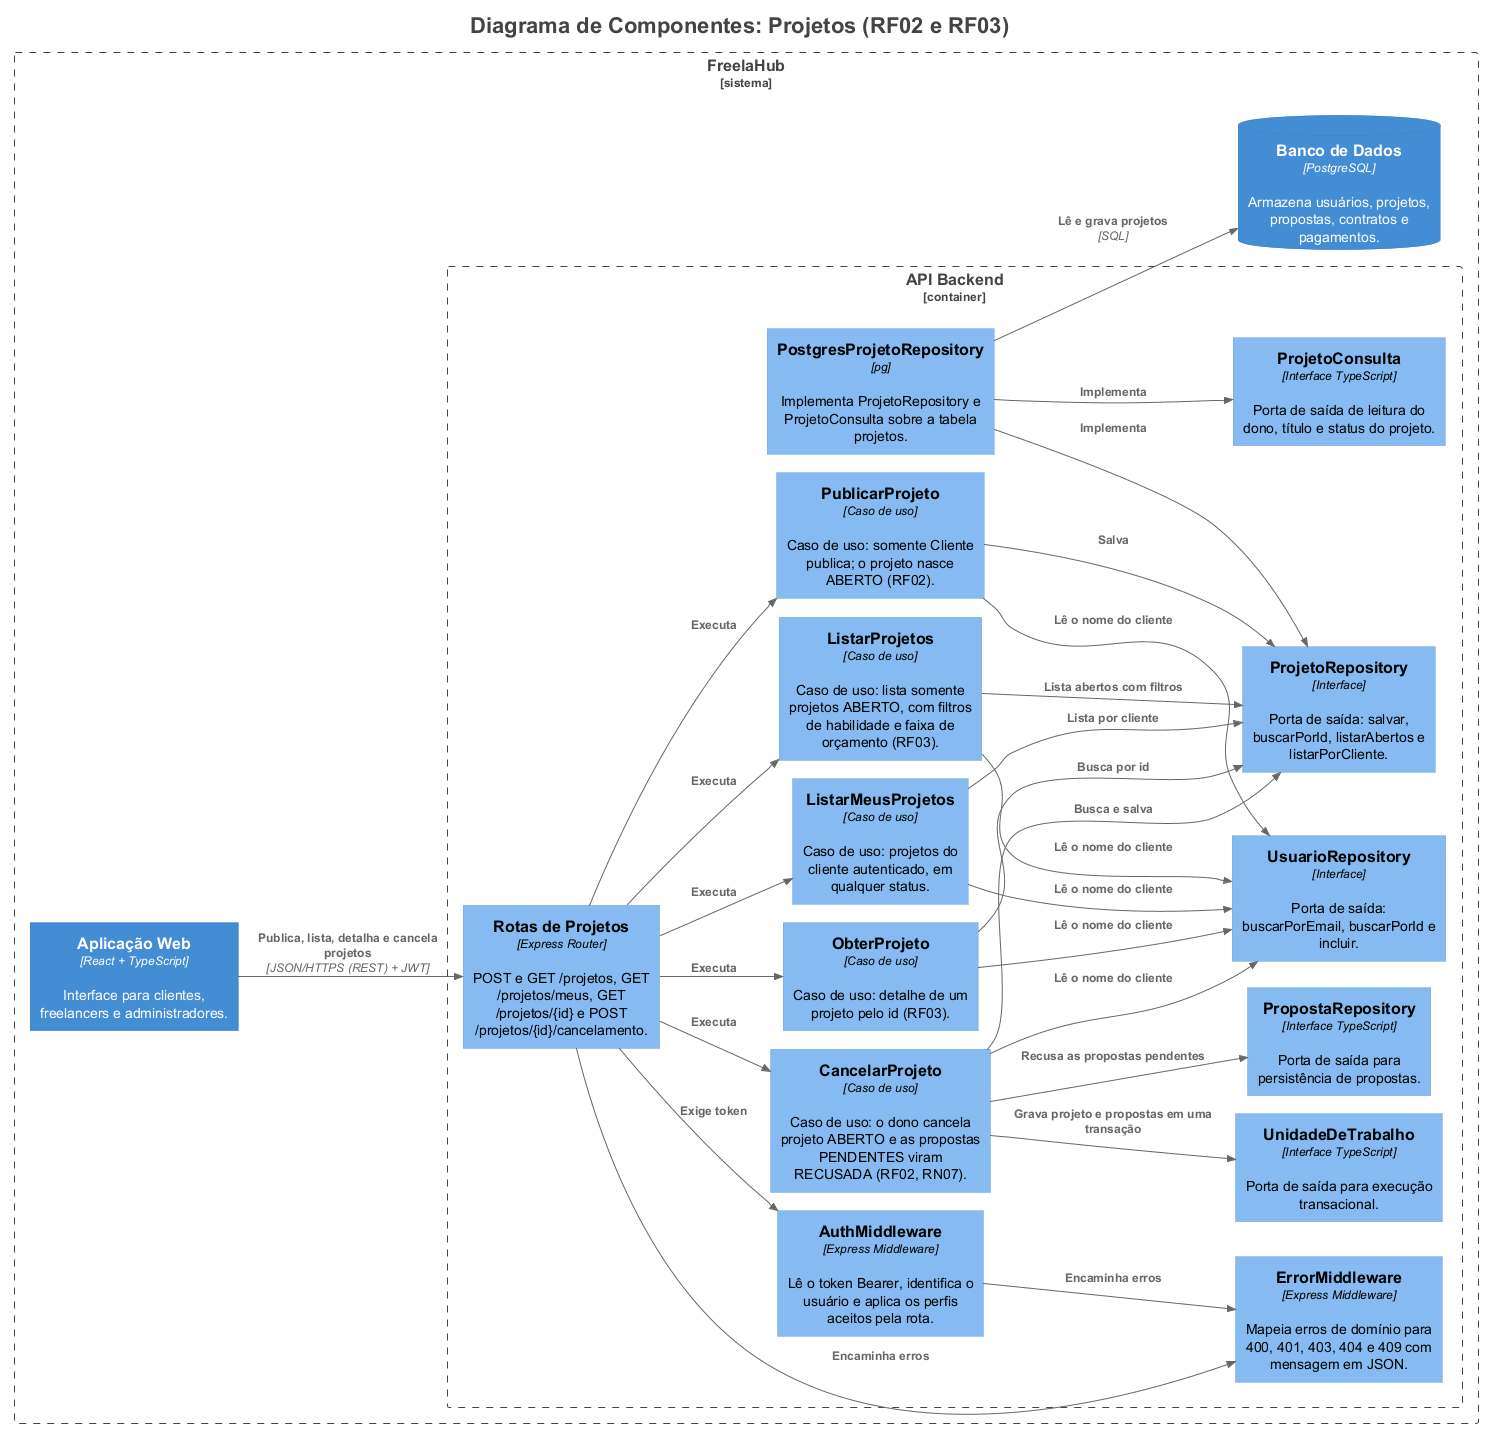
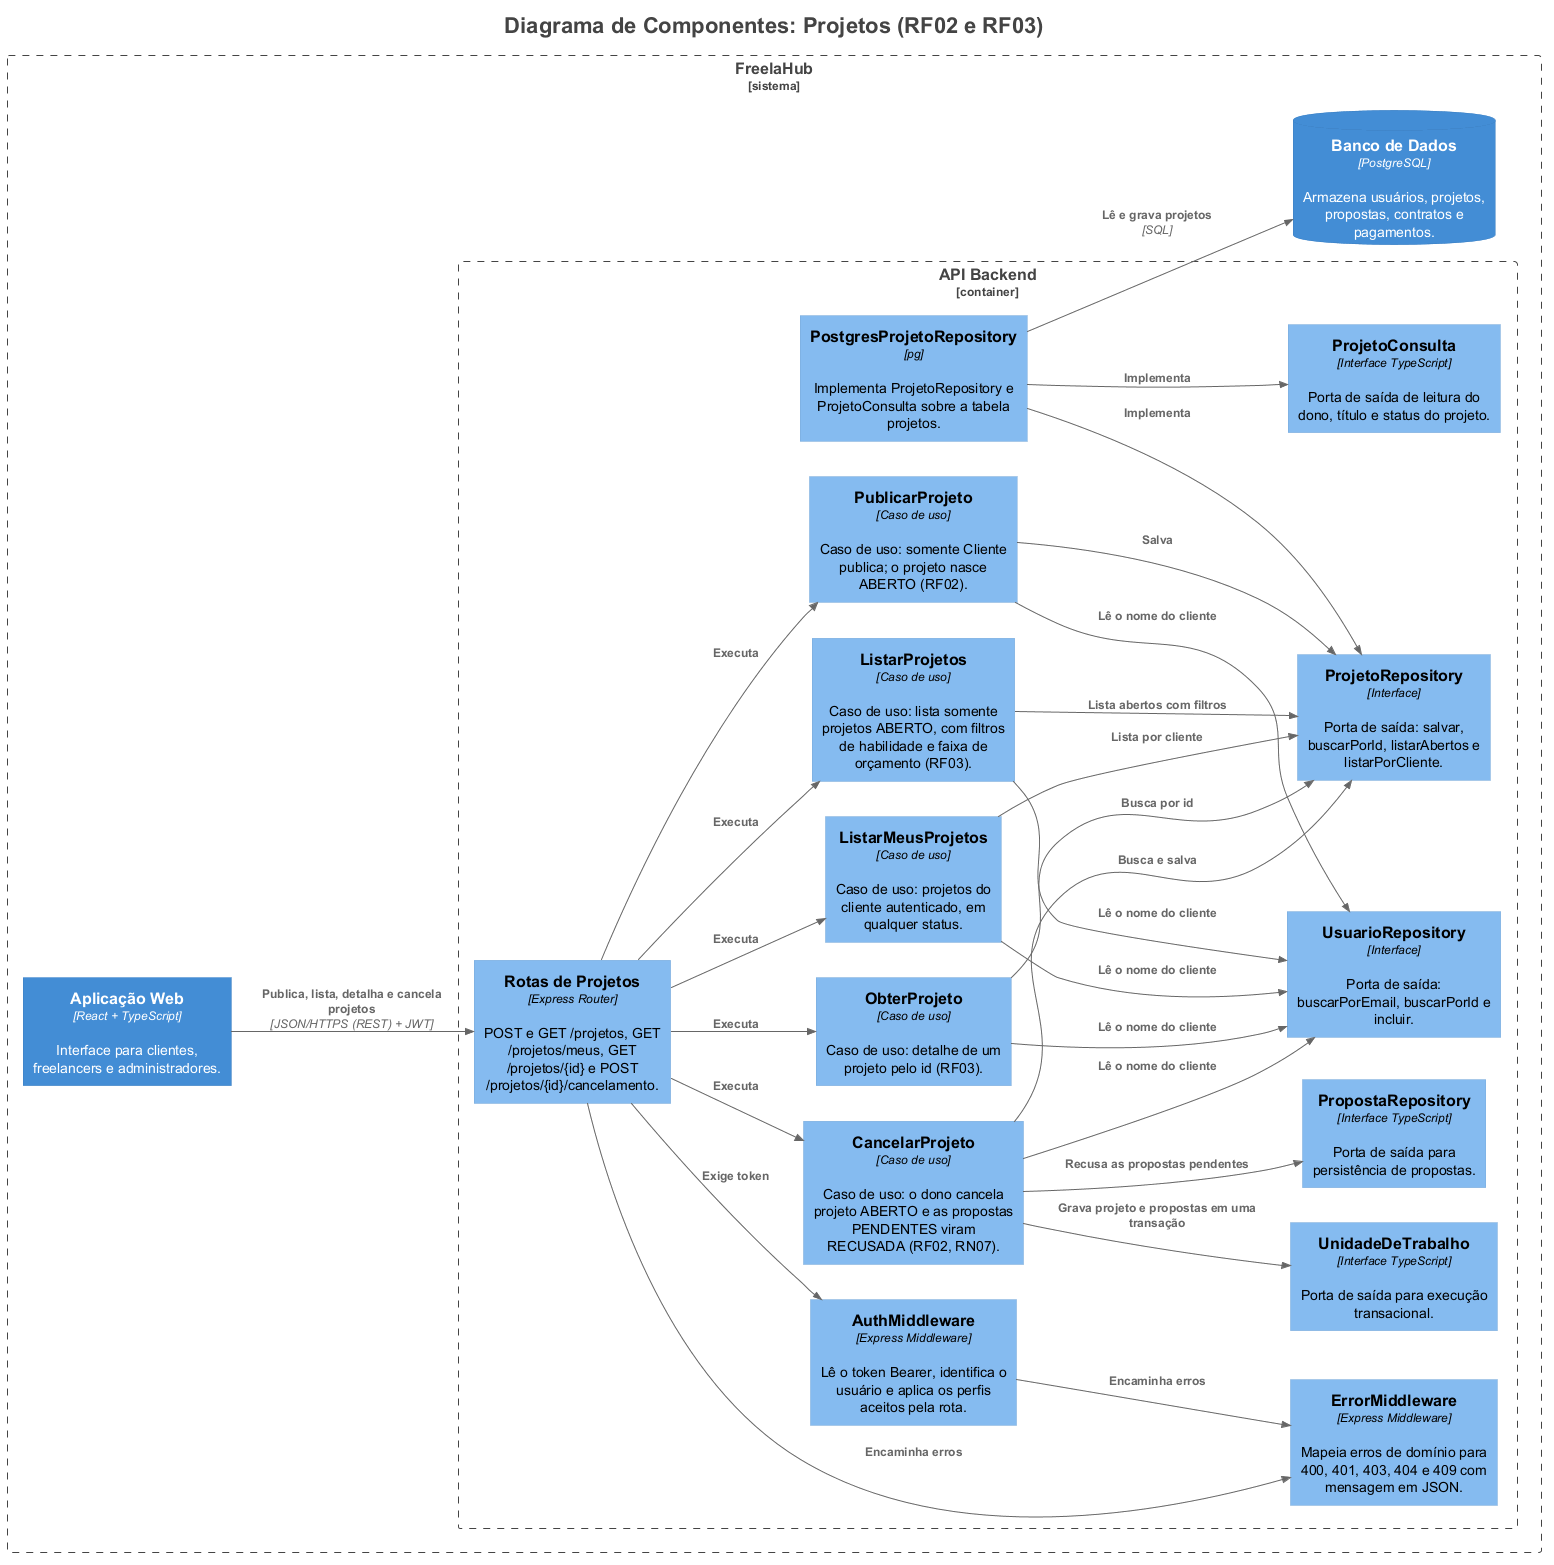
Reúne todos os diagramas C4 em uma página

diff --git a/docs/c4/README.md b/docs/c4/README.md
@@ -1,0 +1,59 @@
+# Diagramas C4 do FreelaHub
+
+Todos os diagramas do projeto, do nível mais geral ao mais detalhado. A fonte é o arquivo [`workspace.dsl`](workspace.dsl). Para navegar neles, cole o conteúdo em [playground.structurizr.com](https://playground.structurizr.com) e escolha a visão no menu.
+
+## Nível 1: Contexto
+
+### Contexto
+
+![Contexto](contexto.png)
+
+## Nível 2: Containers
+
+### Containers
+
+![Containers](containers.png)
+
+## Nível 3: Componentes
+
+### Aplicação Web
+
+![Aplicação Web](componentes-web.png)
+
+### RF01: Cadastro e autenticação
+
+![RF01: Cadastro e autenticação](componentes-rf01.png)
+
+### RF02 e RF03: Projetos
+
+![RF02 e RF03: Projetos](componentes-rf02.png)
+
+### RF04 e RF07: Propostas e notificações
+
+![RF04 e RF07: Propostas e notificações](componentes-propostas.png)
+
+### RF05: Aceite de proposta
+
+![RF05: Aceite de proposta](componentes-rf05.png)
+
+## Nível 4: Código
+
+### RF01: Cadastro e autenticação
+
+![RF01: Cadastro e autenticação](codigo/cadastro-autenticacao.png)
+
+### RF02 e RF03: Projetos
+
+![RF02 e RF03: Projetos](codigo/projetos.png)
+
+### RF04 e RF07: Propostas e notificações
+
+![RF04 e RF07: Propostas e notificações](codigo/propostas-notificacoes.png)
+
+### RF05: Aceite de proposta
+
+![RF05: Aceite de proposta](codigo/aceite-de-proposta.png)
+
+## Pendente
+
+Os diagramas de Componentes e Código do RF06 (pagamento) entram com a fatia correspondente.

diff --git a/README.md b/README.md
@@ -38,8 +38,8 @@ Os diagramas são mantidos em Structurizr DSL no arquivo [`docs/c4/workspace.dsl
 |---|---|---|
 | Contexto | [`docs/c4/contexto.png`](docs/c4/contexto.png) | Concluída |
 | Container | [`docs/c4/containers.png`](docs/c4/containers.png) | Concluída |
-| Componentes | [`componentes-web.png`](docs/c4/componentes-web.png), [`componentes-rf01.png`](docs/c4/componentes-rf01.png), [`componentes-rf02.png`](docs/c4/componentes-rf02.png), [`componentes-propostas.png`](docs/c4/componentes-propostas.png) e [`componentes-rf05.png`](docs/c4/componentes-rf05.png) | Aplicação Web, RF01, RF02, RF03, RF04, RF05 e RF07 modelados. RF06 pendente |
-| Código | [`cadastro-autenticacao.png`](docs/c4/codigo/cadastro-autenticacao.png), [`projetos.png`](docs/c4/codigo/projetos.png), [`propostas-notificacoes.md`](docs/c4/codigo/propostas-notificacoes.md) e [`aceite-de-proposta.png`](docs/c4/codigo/aceite-de-proposta.png) | RF01, RF02, RF03, RF04, RF05 e RF07 modelados. RF06 pendente |
+| Componentes | [Ver todos](docs/c4/README.md#nível-3-componentes) | Aplicação Web, RF01, RF02, RF03, RF04, RF05 e RF07 concluídos. RF06 pendente |
+| Código | [Ver todos](docs/c4/README.md#nível-4-código) | RF01, RF02, RF03, RF04, RF05 e RF07 concluídos. RF06 pendente |
 
 Para visualizar o modelo no navegador, cole o conteúdo do `workspace.dsl` em [playground.structurizr.com](https://playground.structurizr.com). Para visualizar localmente com Docker:
 
